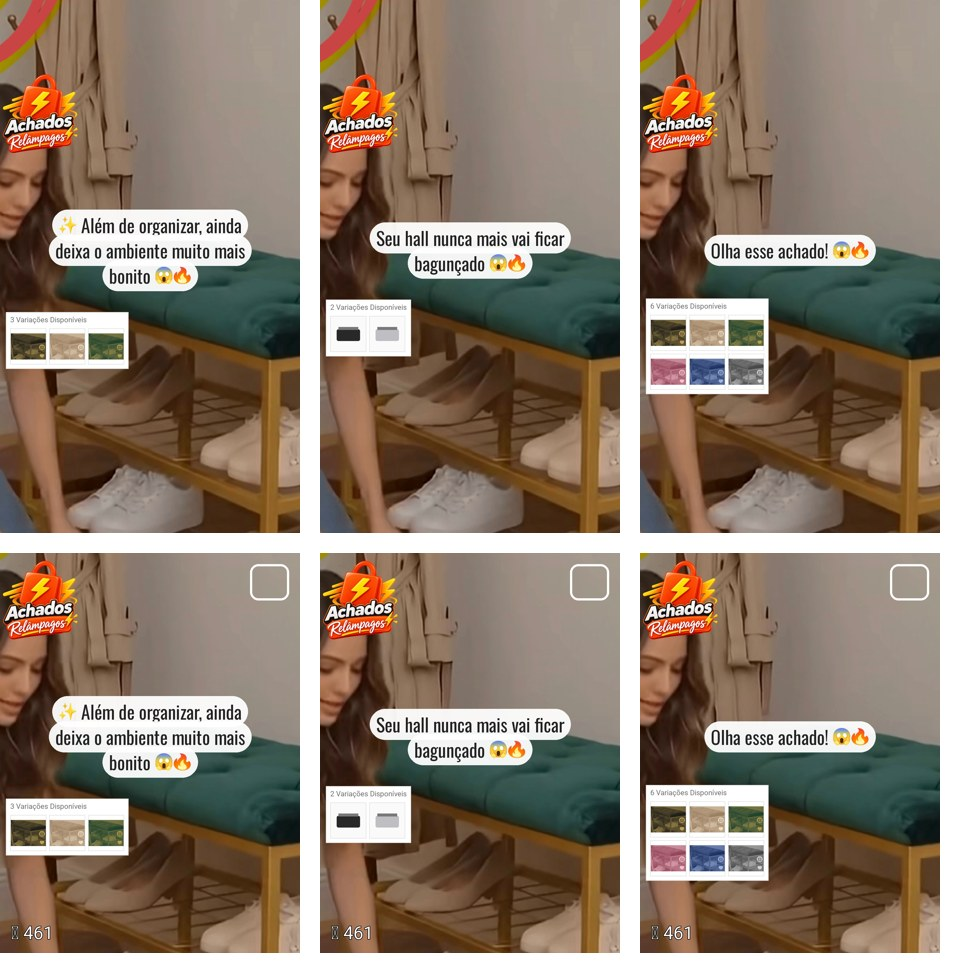
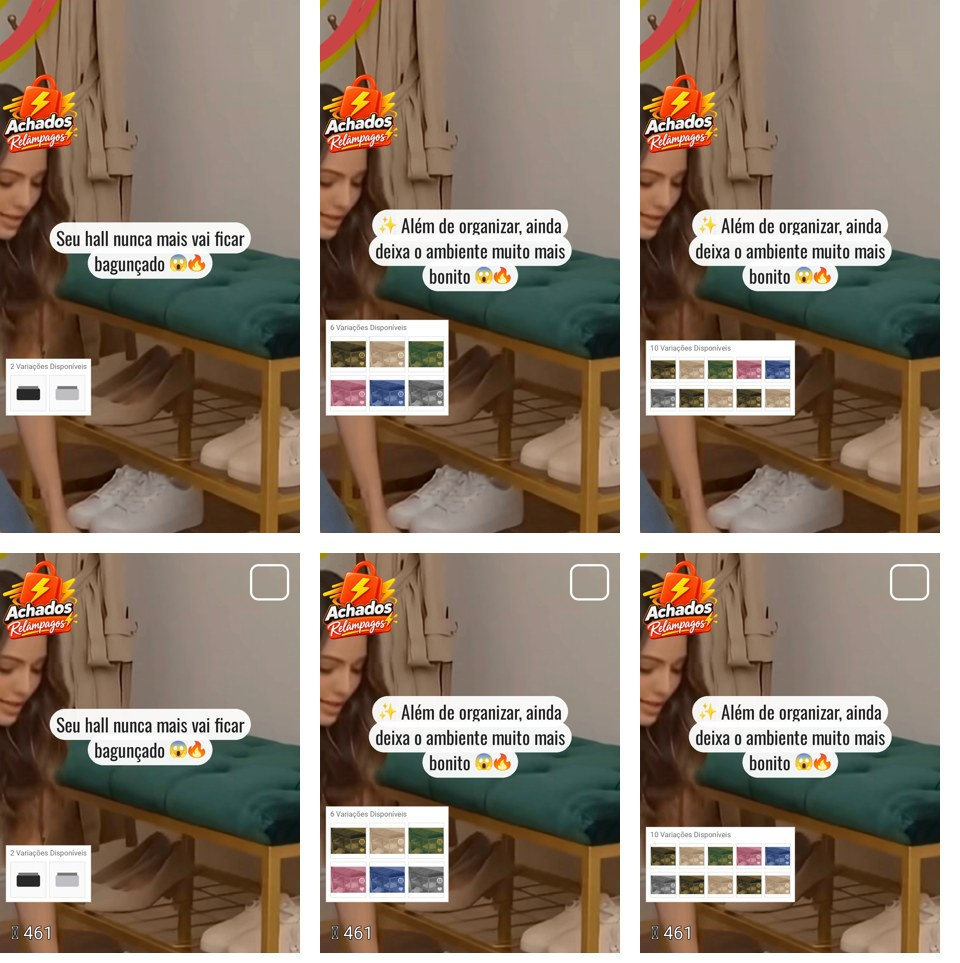
feat: anchor the variations card just above the grid view counter
The card's bottom now sits just above the profile grid's view counter;
extra rows grow upward, stopping just short of the headline (the card is
scaled down if it still doesn't fit).

Claude-Session: https://claude.ai/code/session_01R26CdM2Y4MRhsfn3Xuq2jA

diff --git a/shopee-video-automation/cover_generator.py b/shopee-video-automation/cover_generator.py
@@ -37,9 +37,8 @@ TEXT_COLOR = (34, 34, 34, 255)
 CARD_FONT = ASSETS / 'fonts' / 'Roboto.ttf'
 CARD_WIDTH_RATIO = 0.50
 CARD_LEFT_RATIO = 0.02
-CARD_MIN_TOP_RATIO = 0.56
-CARD_MAX_BOTTOM_RATIO = 0.78   # o contador de views da grade fica no canto inferior esquerdo (~80-87%)
-CARD_GAP_BELOW_TEXT = 0.04
+CARD_BOTTOM_RATIO = 0.78       # ancorado logo acima do contador de views da grade (~80-87%)
+CARD_GAP_BELOW_TEXT = 0.015    # se crescer para cima, para quase encostando na headline
 CARD_MAX_COLS = 5
 CARD_MAX_THUMB = 130
 PILL_COLOR = (255, 255, 255, 240)
@@ -211,10 +210,12 @@ class CoverGenerator:
                 self._draw_line(frame, line, self.width // 2, top + i * step)
             if card_path:
                 card = Image.open(card_path).convert('RGBA')
-                card_top = max(int(self.height * CARD_MIN_TOP_RATIO),
-                               top + total_h + int(self.height * CARD_GAP_BELOW_TEXT))
-                card_top = min(card_top, int(self.height * CARD_MAX_BOTTOM_RATIO) - card.height)
-                frame.alpha_composite(card, (int(self.width * CARD_LEFT_RATIO), card_top))
+                bottom = int(self.height * CARD_BOTTOM_RATIO)
+                room = bottom - (top + total_h + int(self.height * CARD_GAP_BELOW_TEXT))
+                if card.height > room:  # não cabe entre a headline e o contador: reduz o cartão
+                    scale = room / card.height
+                    card = card.resize((round(card.width * scale), room), Image.LANCZOS)
+                frame.alpha_composite(card, (int(self.width * CARD_LEFT_RATIO), bottom - card.height))
             frame.convert('RGB').save(output_path, quality=92)
             logger.info(f'✅ Capa gerada: {output_path}')
             return output_path

diff --git a/shopee-video-automation/README.md b/shopee-video-automation/README.md
@@ -36,7 +36,7 @@ fica automático.)
 | Produto | Descoberto pelo link (produto, link curto ou link de vídeo); a IA confere nos quadros do vídeo |
 | Links extras | Mesmo produto em outras lojas, maior comissão (sem piso), nota ≥ 4,5, confirmado pela IA |
 | Sub_id | `Data + SV + Produto` (ex.: `11Out26SVSapateiraBanco`), `V2`/`V3` se repetir; o mesmo nos 3 links |
-| Capa | Tudo dentro do recorte 3:4 da grade do perfil (logo a 14%, cartão até 78%). Quadro do vídeo com logo, headline e **cartão "N Variações Disponíveis"** (miniaturas das variações do produto principal: cor, modelo, voltagem, kit…), à esquerda, logo abaixo da headline, sem inclinação |
+| Capa | Tudo dentro do recorte 3:4 da grade do perfil (logo a 14%; cartão ancorado logo acima do contador de views, crescendo para cima até quase a headline). Quadro do vídeo com logo, headline e **cartão "N Variações Disponíveis"** (miniaturas das variações do produto principal: cor, modelo, voltagem, kit…), à esquerda, sem inclinação |
 | Headline | Gerada pela IA, até 60 caracteres, termina com 😱🔥, vende a transformação; gatilhos em rodízio (Choque, Urgência, Curiosidade, Dor, Autoridade); nunca repete para o mesmo produto |
 | Compliance | Sem preço, sem falsa escassez, sem inventar características, avaliações ou descontos |
 | Agenda | 10 posts/dia entre 9h e 22h, horários quebrados, nunca o mesmo produto no mesmo dia |
